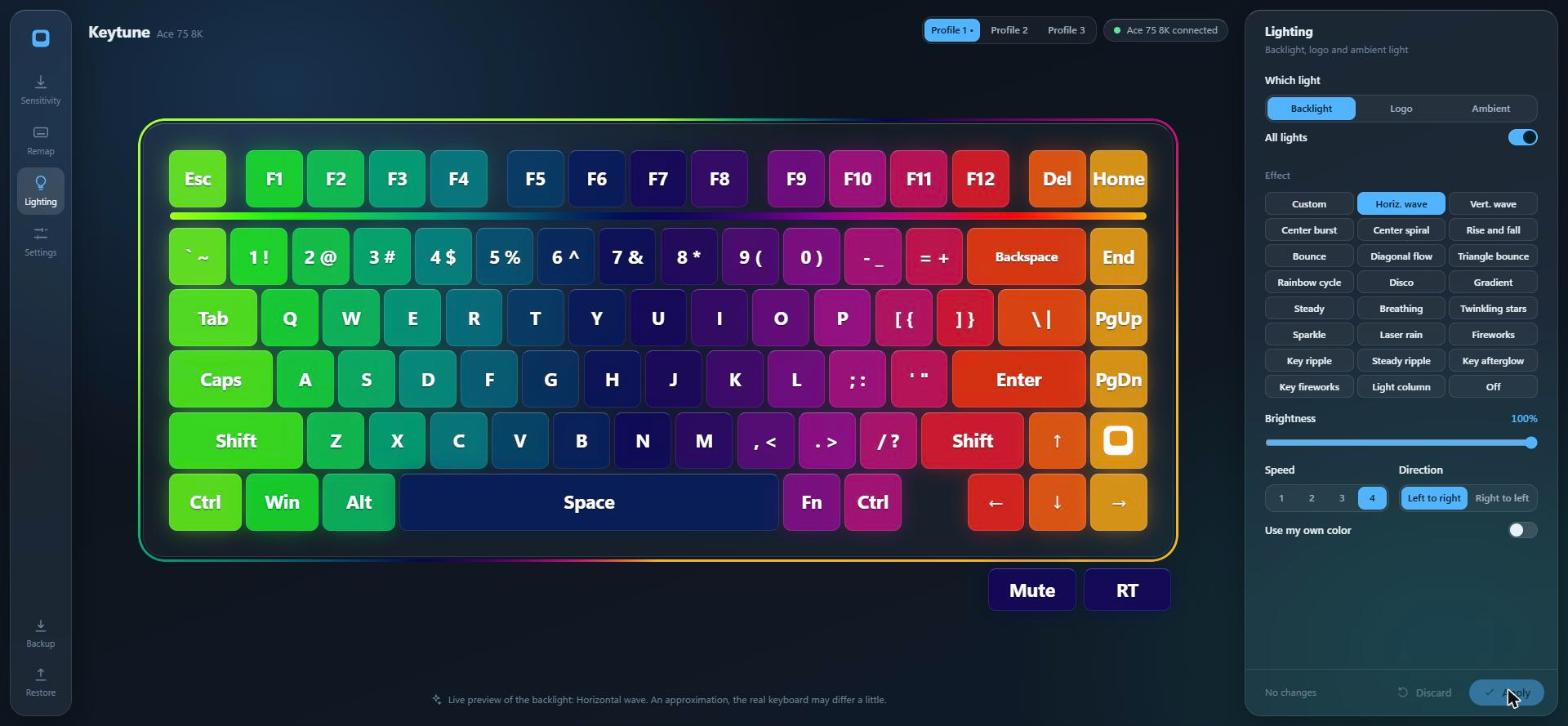
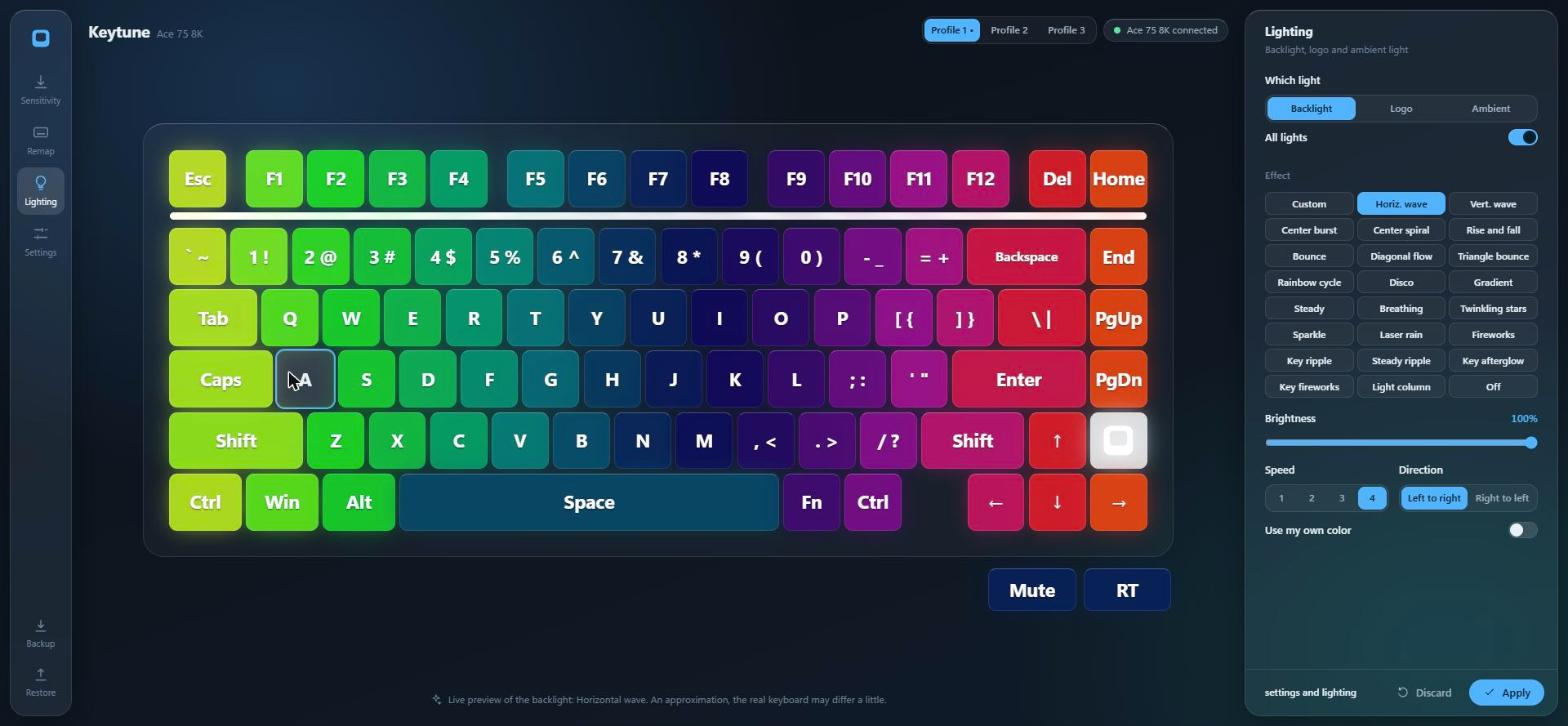
Refresh README screenshots for the current look

Changed region(s): [[0.0625, 0.1515, 0.75, 0.8485], [0.9062, 0.9091, 1.0, 1.0], [0.8125, 0.9394, 0.875, 0.9697]]

diff --git a/docs/internal/tasks/todo.md b/docs/internal/tasks/todo.md
@@ -1,7 +1,7 @@
 # RESUME HERE (state saved 2026-11-18, Keytune 0.1.0 is PUBLISHED)
 
 ## Where things stand
-- **Pushed 2026-11-18 (live), plus a local commit not pushed: the ambient ring around the case is removed and the light bar follows the AMBIENT light (it copies the backlight only when ambient is on 'follow'); ask before pushing.** Earlier pushed: light bar follows the backlight, model specs + limits (actuation up to 4.00 mm, hardware-proven; Rapid Trigger 3.40 mm, untested), spec step in docs/ADDING_A_MODEL.md.
+- **Pushed 2026-11-18 (live), also pushed: the ambient ring is removed, the light bar follows the AMBIENT light (copies the backlight only when ambient is on "follow"), README screenshots refreshed.** Earlier pushed: light bar follows the backlight, model specs + limits (actuation up to 4.00 mm, hardware-proven; Rapid Trigger 3.40 mm, untested), spec step in docs/ADDING_A_MODEL.md.
 - **Published:** repo https://github.com/Momkay/keytune (public, branch `main`), live at **https://momkay.github.io/keytune/** (Pages from the Actions workflow; first CI run green, deploy ok, page loads, 37 modules, WebHID available). The app is called **Keytune**. Slices 1-9 and Phase 4 tracks A-D are done. 97 tests, lint, typecheck, `npm audit` (0) green. README (users) and `docs/DEVELOPING.md` (developers) written, 3 screenshots in `docs/screenshots/`.
 - Commits are authored with the user's git identity (name and GitHub noreply email). Ask before any further `git push`, force push, release tag or repo setting change; a push to `main` redeploys the site.
 - **Built this phase:** one-screen dark glass workspace; keyboard picture with a light bar under the F row and shifted legends; generic keycap logo; profile view + "Use Profile N" (cmd 14); per-key custom colours (cmd 10 read, cmd 11 write, effect 0 = "Custom"); backups carry the colour table.
